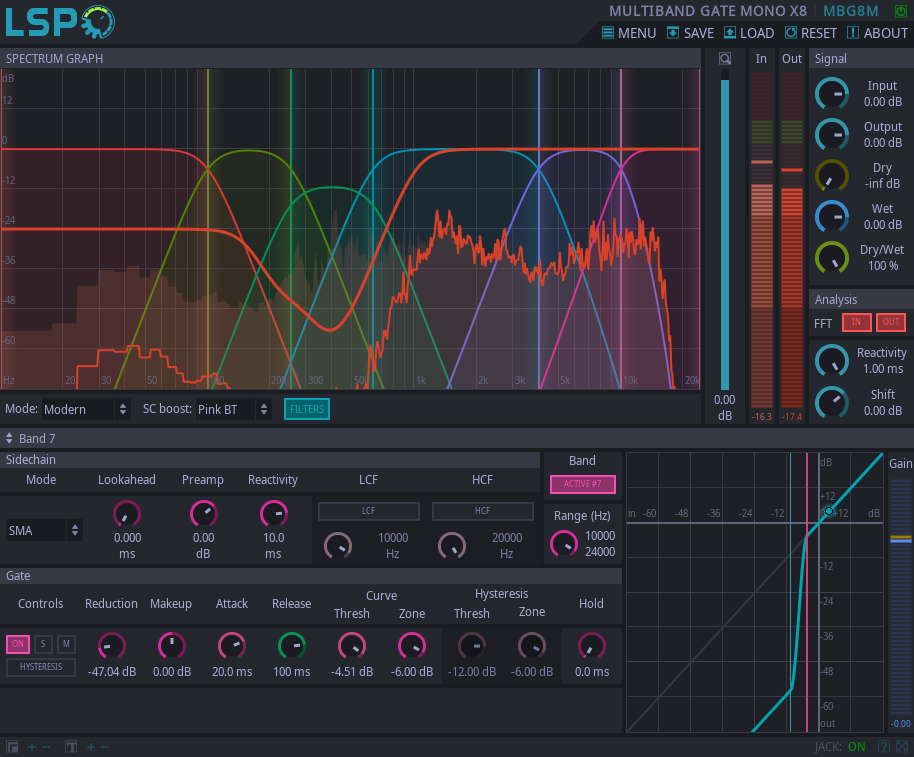
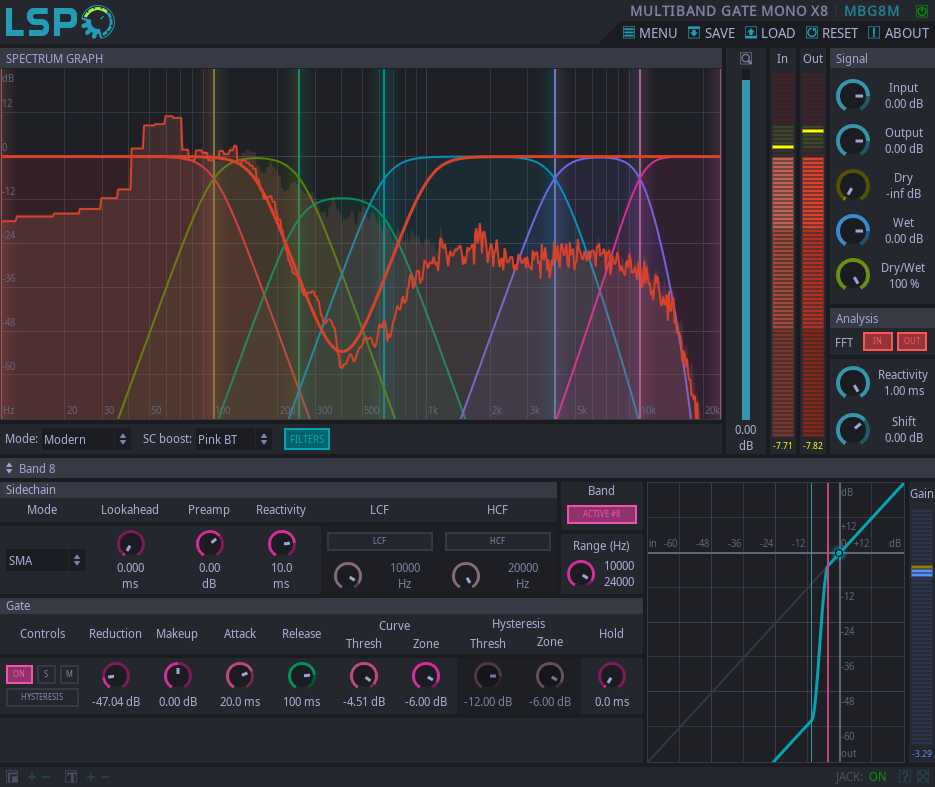
Changed the numbering of splits.
The numbering of splits starts with one, at the UI level.
Updated screenshots.

diff --git a/src/main/ui/mb_gate.cpp b/src/main/ui/mb_gate.cpp
@@ -278,7 +278,7 @@ namespace lsp
                 else
                     lc_string.set("lists.mb_gate.splits.index.split_id");
 
-                lc_string.params()->set_int("id", (vSplits.index_of(s) % (meta::mb_gate_metadata::BANDS_MAX-1))+1);
+                lc_string.params()->set_int("id", (vSplits.index_of(s) % (meta::mb_gate_metadata::BANDS_MAX-1))+2);
                 lc_string.format(&text);
                 params.set_string("id", &text);
                 lc_string.params()->clear();
